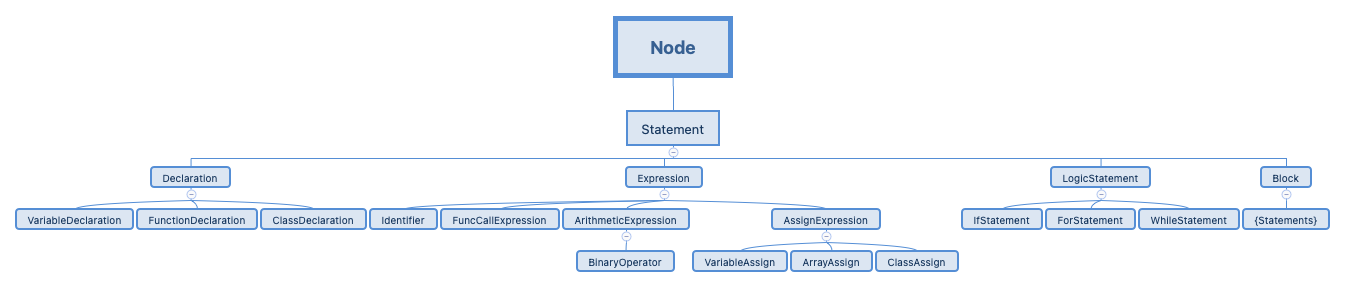
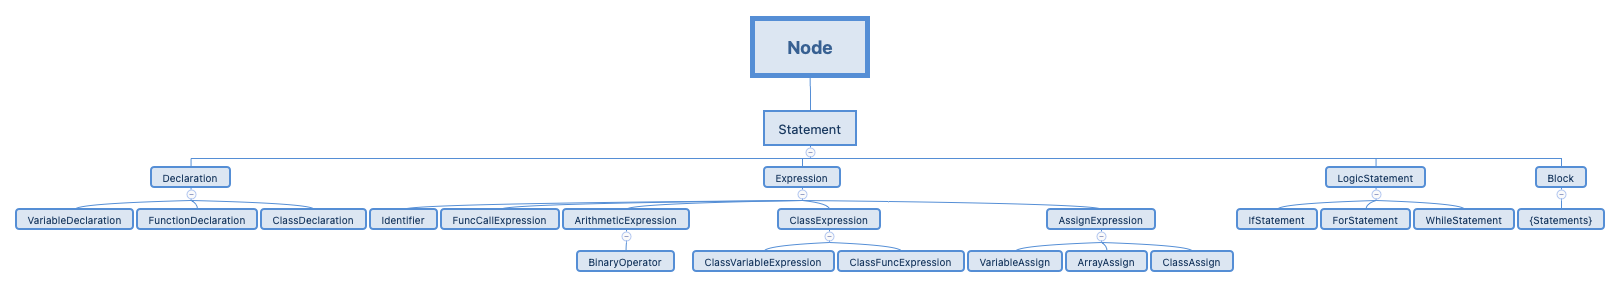
add: ClassExpression for a.b.c and a.f()

diff --git a/semantic/node.h b/semantic/node.h
@@ -227,6 +227,97 @@ class FuncCallExpression : public Expression {
     }
 };
 
+/**
+ * @author gehao
+ *  
+ * 类表达式：访问类成员变量a.b, 调用类成员函数a.f()
+ */
+class ClassExpression : public Expression {
+   private:
+    Type type = CLASSEXPRESSION;
+
+   public:
+    ClassExpression() {}
+    ~ClassExpression() {}
+
+    Type getType() const override {
+        return this->type;
+    }
+};
+
+/**
+ * @author gehao
+ * 
+ * 访问类成员变量表达式：Identifier_obj.Identifier_obj.Identifier_obj....Identifier_member
+ * a.b.c or a.b 
+ */
+class ClassVariableExpression : public ClassExpression {
+   private:
+    Type type = CLASSVARIABLEEXPRESSION;
+    Identifier* obj = nullptr;
+    std::vector<Identifier*>* objList = nullptr;  // 必须保证objList里除了最后一个Identifier，其余都是类对象，否则检查时报错
+
+   public:
+    ClassVariableExpression(Identifier* obj, std::vector<Identifier*>* objList) : obj(obj), objList(objList) {}
+    ~ClassVariableExpression() {
+        delete obj;
+        delete objList;
+    }
+
+    Type getType() const override {
+        return this->type;
+    }
+
+    Identifier* getObj() {
+        return obj;
+    }
+
+    std::vector<Identifier*>* getObjList() {
+        return objList;
+    }
+};
+
+/**
+ * @author gehao
+ * 
+ * 访问类成员函数： Identifier_obj.Identifier_obj.Identifier_obj....Identifier_func
+ * a.b.c.func or a.func
+ */
+class ClassFuncExpression : public ClassExpression {
+   private:
+    Type type = CLASSFUNCEXPRESSION;
+    Identifier* obj = nullptr;
+    std::vector<Identifier*>* objList = nullptr;  // 必须保证objList里除了最后一个Identifier，其余都是类对象，否则检查时报错
+    FuncCallExpression* func = nullptr; // 通过前面的对象block作用域，确定到当前的func，随后就可以像普通函数那样调用
+
+   public:
+    // a.f()
+    ClassFuncExpression(Identifier* obj, FuncCallExpression* func) : obj(obj), func(func) {}
+    // a.b.c.f()
+    ClassFuncExpression(Identifier* obj, std::vector<Identifier*>* objList, FuncCallExpression* func) : obj(obj), objList(objList), func(func) {}
+    ~ClassFuncExpression() {
+        delete obj;
+        delete objList;
+        delete func;
+    }
+
+    Type getType() const override {
+        return this->type;
+    }
+
+    Identifier* getObj() {
+        return obj;
+    }
+
+    std::vector<Identifier*>* getObjList() {
+        return objList;
+    }    
+
+    FuncCallExpression* getFunc() {
+        return func;
+    }    
+};
+
 /** 
  * @author gehao
  * 

diff --git a/semantic/type.h b/semantic/type.h
@@ -8,13 +8,16 @@ enum Type {
 
     EXPRESSION,
     IDENTIFIER,
+    FUNCCALLEXPRESSION,
     ARITHMETICEXPRESSION,
     BINARYOPERATOR,
+    CLASSEXPRESSION,
+    CLASSVARIABLEEXPRESSION,
+    CLASSFUNCEXPRESSION,
     ASSIGNEXPRESSION,
     VARIABLEASSIGN,
     ARRAYASSIGN,
     CLASSASSIGN,
-    FUNCCALLEXPRESSION,
 
     DECLARATION,
     VARIABLEDECLARATION,
